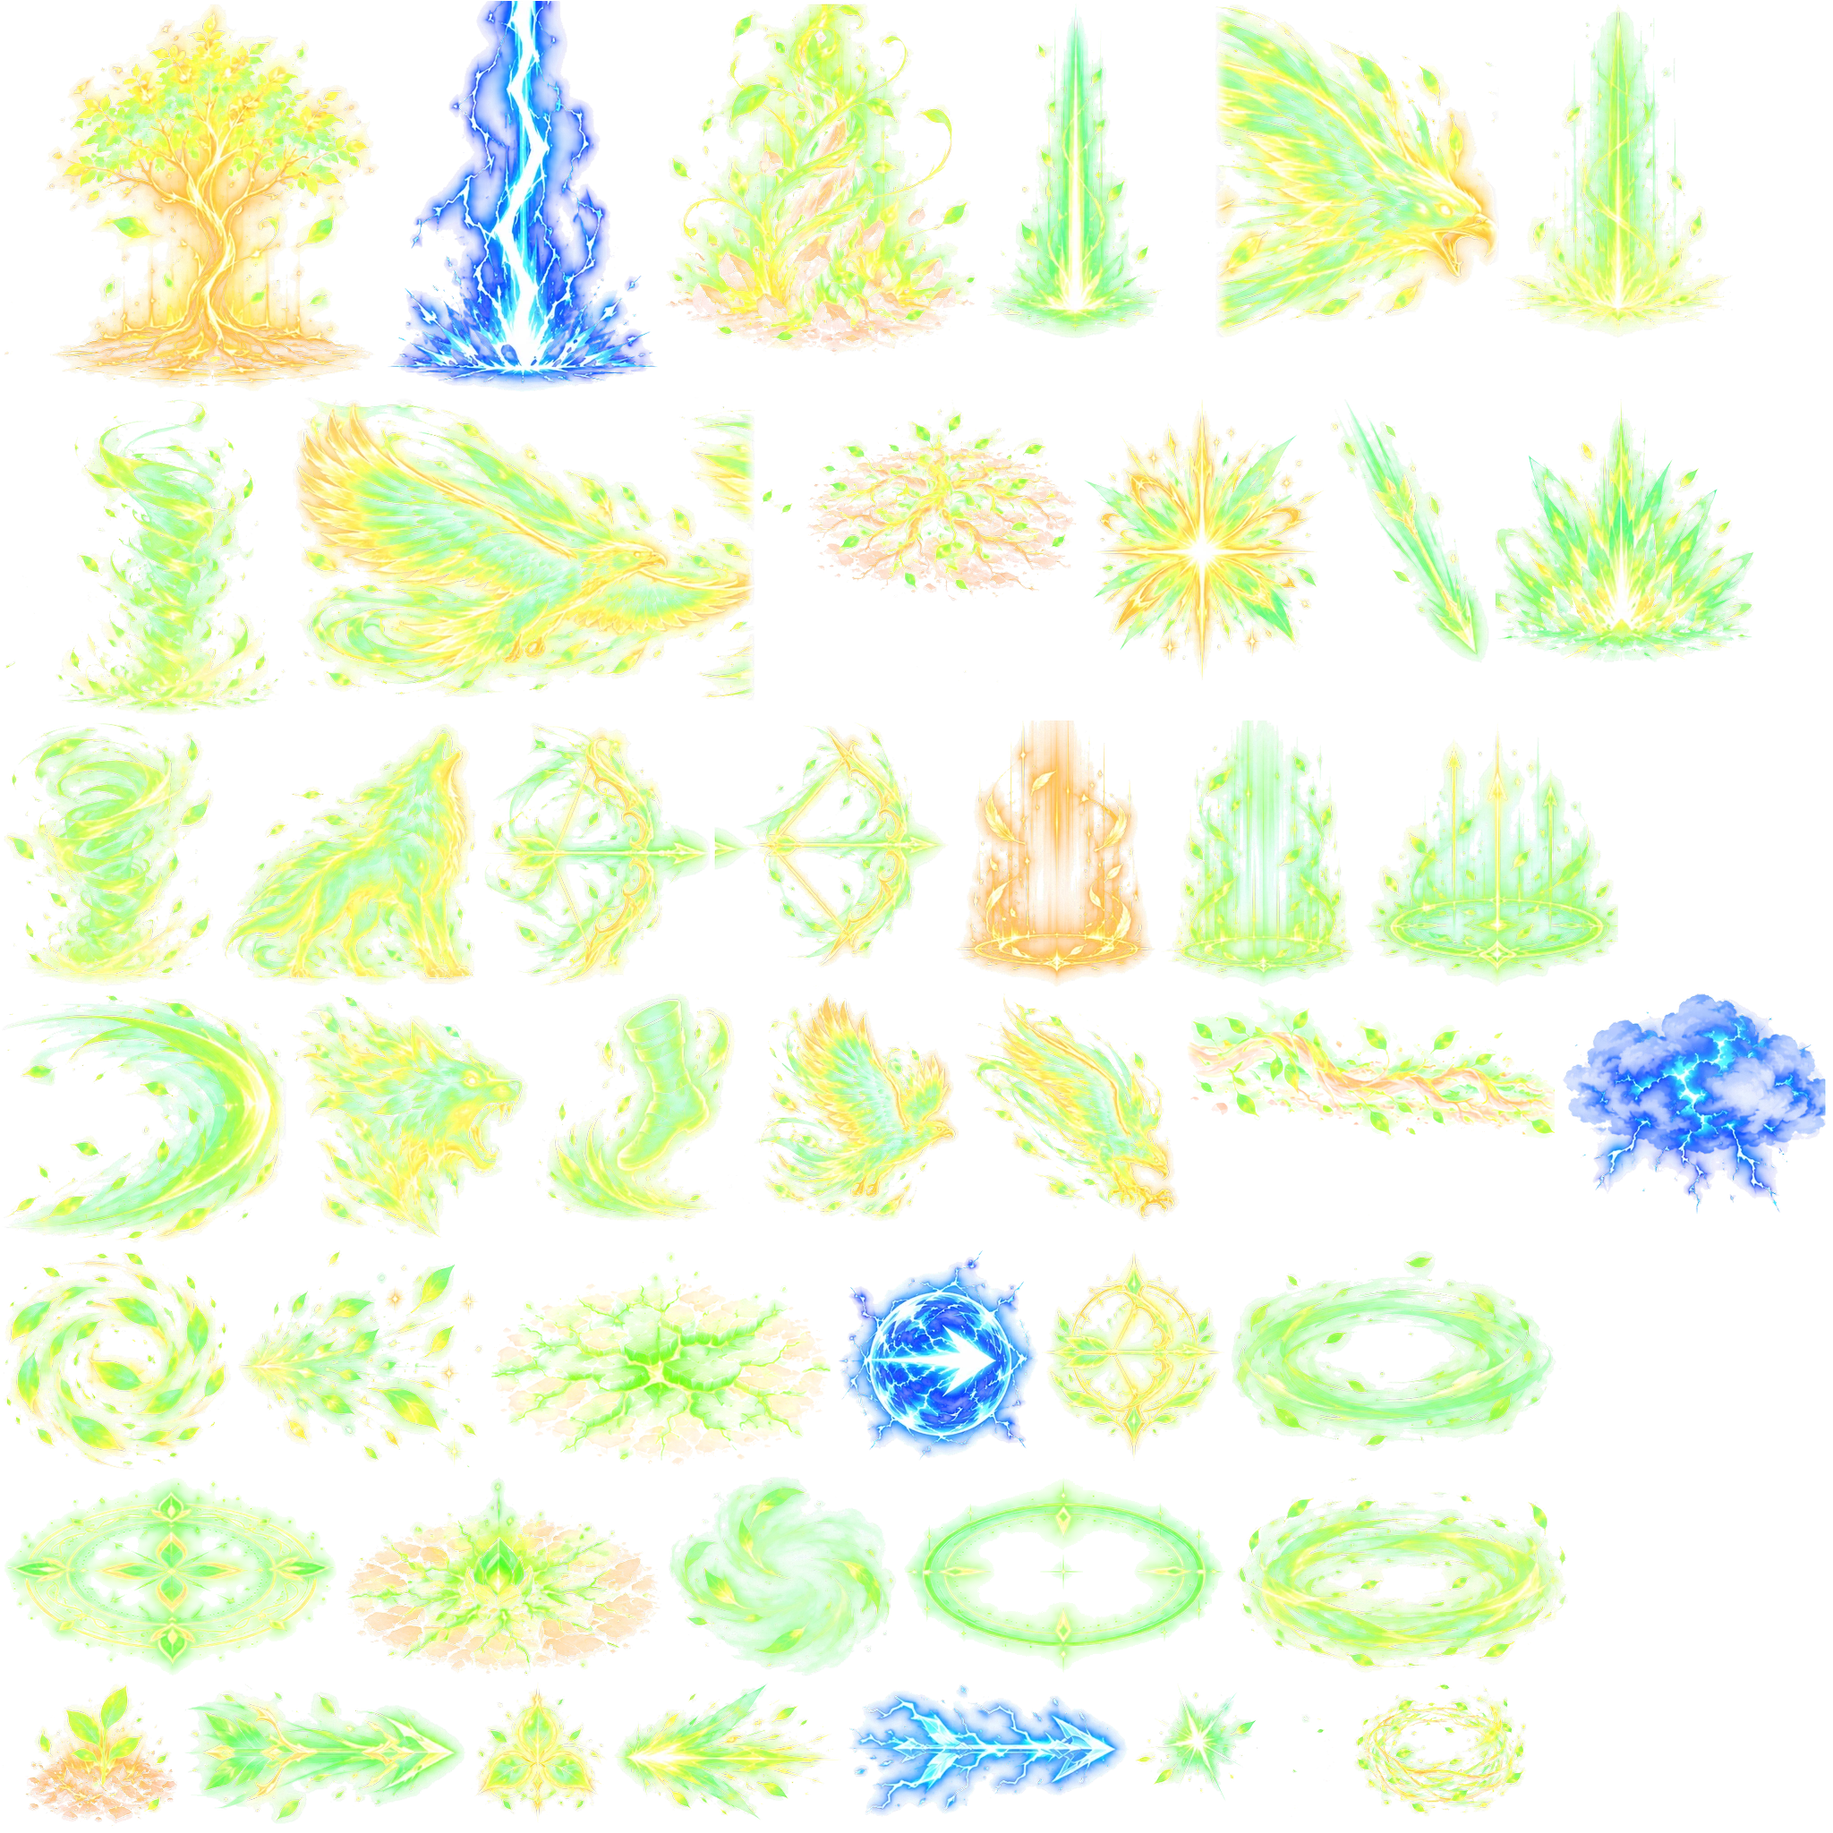
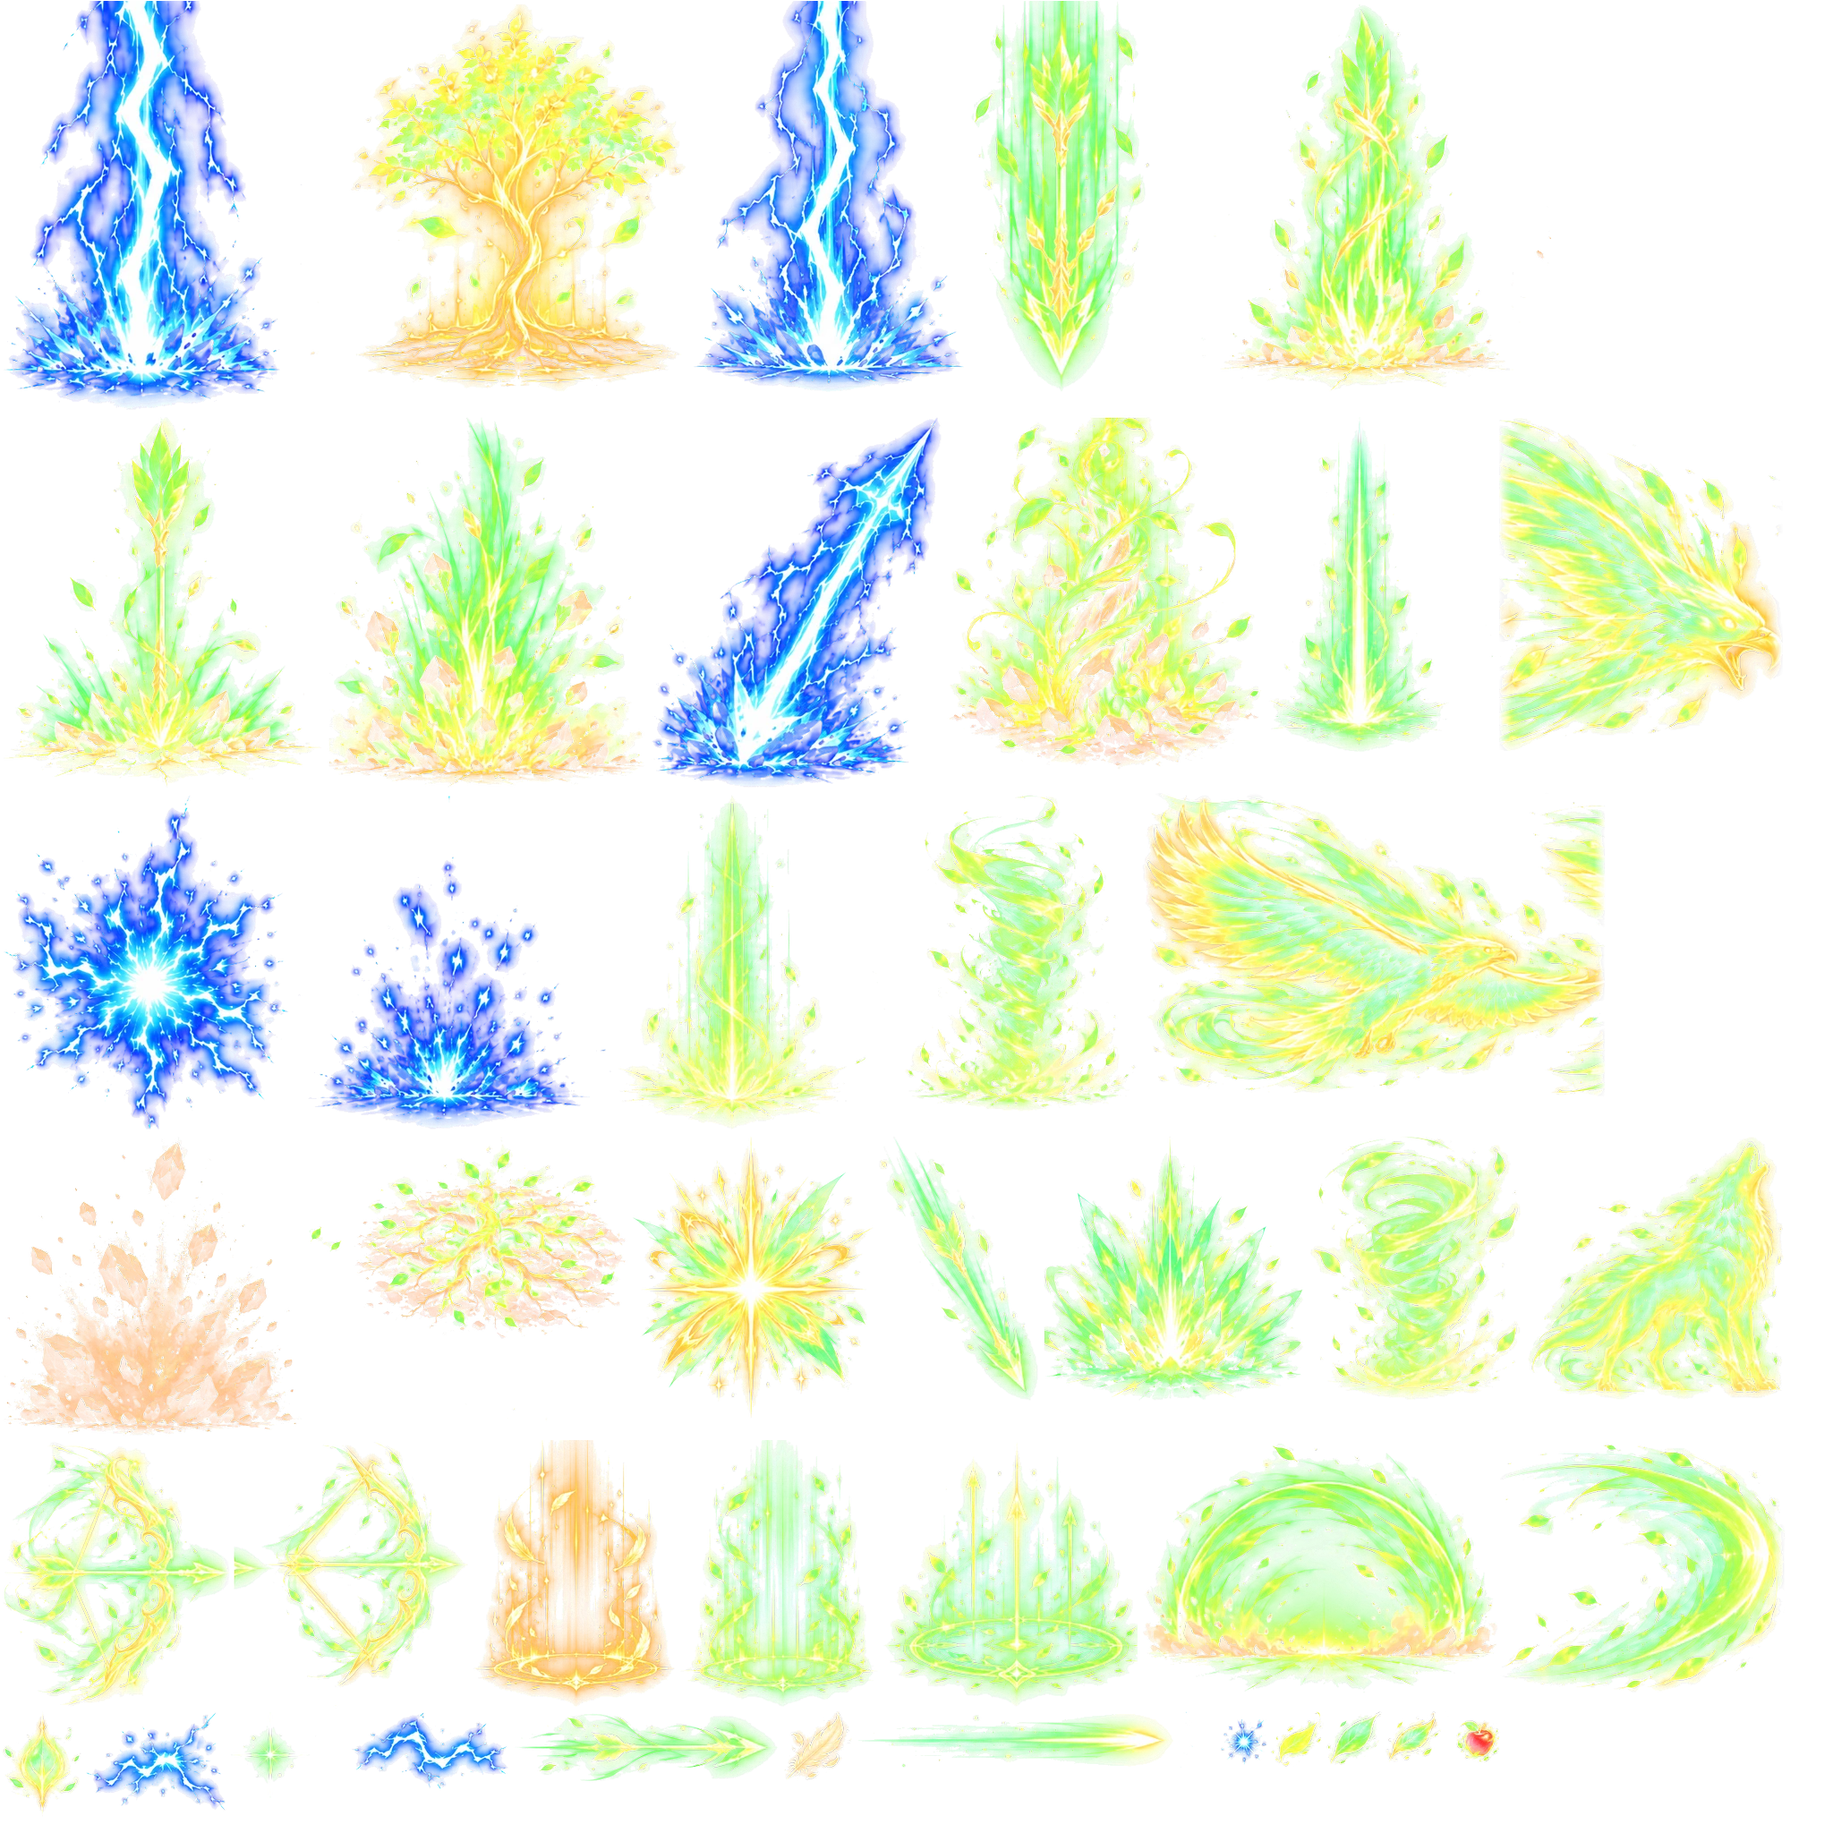
Archer: two new painted sheets (falling / planted arrows, earth bursts, debris, craters, geysers; lightning arrow, strike, burnt charged ground, arcs) used by Hunter's Rain, Wind Step, the kick and the lightning arrows
Claude-Session: https://claude.ai/code/session_01VyjNmvWjWSa1nwJcopXfn1

diff --git a/src/skills/ArcherFx.ts b/src/skills/ArcherFx.ts
@@ -194,7 +194,7 @@ export class ArcherFx {
             this.muzzle(r, 110); const q = this.me(r), sx = q.x + side * 16, sy = q.y - q.z - 54, dx = gx - sx, dy = gy - sy;
             this.spr({ name: 'arrow_heavy', x: sx, y: sy, depth: TOP + 3, w: 100, angle: Math.atan2(dy, dx) * (180 / Math.PI), glow: 0.3, life: 110, mx: (u) => dx * u, my: (u) => dy * u });
             this.later(110, () => {
-              this.spr({ name: 'arrow_stuck', x: gx, y: gy + 4, oy: 0.9, depth: gy + 1, w: 70, flipX: side < 0, life: 240, glow: 0.4 });
+              this.spr({ name: 'arrow_planted', x: gx, y: gy + 6, oy: 0.96, depth: gy + 1, w: 90, life: 240, glow: 0.4 });
               this.floor('floor_cracks', gx, gy, 80, 300, { add: true, s: kf([0, 0.4], [1, 1.2, out3]), a: kf([0, 0.6], [1, 1]) });
               this.pop('arrow_glint', gx, gy - 20, 50, { life: 200 });
             });
@@ -229,7 +229,8 @@ export class ArcherFx {
         this.later(T.startup, () => {
           this.floor('floor_cracks', kx, ky, 190, 900, { run: r, a: kf([0, 1], [0.7, 0.9], [1, 0]) }); // the floor breaks open
           this.spr({ name: 'dust', x: kx, y: ky + 4, oy: 0.85, depth: ky + 1, w: 200, life: 640, sx: kf([0, 0.4], [1, 1.5, out3]), a: kf([0, 0.9], [1, 0, inQ]) });
-          this.spr({ name: 'launch_beam', x: kx, y: ky + 6, oy: 0.97, depth: ky + 2, w: 130, h: 360, life: 460, add: true, glow: 0.3, sy: kf([0, 0.2], [0.22, 1.1, out3]), a: kf([0, 1], [1, 0, inQ]) });
+          this.floor('crater', kx, ky, 210, 1300, { a: kf([0, 0], [0.04, 1], [0.6, 0.85], [1, 0]) });
+          this.spr({ name: 'debris', x: kx, y: ky + 6, oy: 0.95, depth: ky + 4, w: 210, life: 640, my: (u) => -30 * out(u), sy: kf([0, 0.4], [0.3, 1.1, out3]), a: kf([0, 1], [0.6, 1], [1, 0, inQ]) });
           // the big boot rises out of the ground (grows up from the floor line), toe the way she faces, a whirl turning round it
           this.spr({ name: 'wind_boot', x: kx, y: ky + 8, oy: 1, depth: ky + 3, w: 210, flipX: side < 0, life: T.active + 360, glow: 0.3,
             sy: kf([0, 0], [0.18, 1.12, out3], [0.3, 1]), sx: kf([0, 0.7], [0.18, 1, out3]), my: kf([0, 0], [0.18, -20, out3], [1, -70]), a: kf([0, 1], [0.75, 1], [1, 0]) }); // always faces the way she faces
@@ -283,47 +284,46 @@ export class ArcherFx {
     if (s.id === 'rain_of_arrows') { // the charged lightning arrow strikes the floor (near, middle, far)
       const sh = r.hits[i].shape as { bias?: number }, cx = r.origin.x + a.x * (sh.bias ?? 200), cy = r.origin.y + a.y * (sh.bias ?? 200);
       const q = this.me(r), sx = q.x + sideOf(r) * 30, sy = q.y - q.z - 58, lv = { x: cx - sx, y: cy - 20 - sy }, L = Math.hypot(lv.x, lv.y) || 1;
-      this.spr({ name: 'arrow_storm', x: sx, y: sy, depth: TOP + 3, w: 170, angle: Math.atan2(lv.y, lv.x) * (180 / Math.PI), add: true, glow: 0.4, life: 110, mx: (u) => lv.x * u, my: (u) => lv.y * u, a: kf([0, 1], [1, 1]) });
+      this.spr({ name: 'elec_arrow', x: sx, y: sy, ox: 0.9, depth: TOP + 3, w: 190, angle: Math.atan2(lv.y, lv.x) * (180 / Math.PI), add: true, glow: 0.4, life: 110, mx: (u) => lv.x * u, my: (u) => lv.y * u, a: kf([0, 1], [1, 1]) });
       this.later(100, () => {
-        // the arrow stands in the floor, then the sky answers: a great bolt strikes it, and the floor round it stays charged
-        this.spr({ name: 'arrow_storm', x: cx, y: cy + 4, ox: 0.85, depth: cy + 2, w: 150, angle: lv.x >= 0 ? 62 : 118, flipY: lv.x < 0, add: true, glow: 0.4, life: 2000, a: (u) => (u > 0.8 ? (1 - u) * 5 : 1) * (0.75 + 0.25 * Math.sin(u * 60)) });
-        this.pop('burst_crit', cx, cy - 26, 150, { life: 220, tint: 0x9fe6ff });
+        // the arrow stands in the floor, then the sky answers: a great bolt strikes it, and the burnt ground round it stays charged
+        this.spr({ name: 'elec_arrow', x: cx, y: cy + 6, ox: 0.97, depth: cy + 2, w: 170, angle: lv.x >= 0 ? 58 : 122, flipY: lv.x < 0, add: true, glow: 0.4, life: 2000, a: (u) => (u > 0.8 ? (1 - u) * 5 : 1) * (0.75 + 0.25 * Math.sin(u * 60)) });
+        this.spr({ name: 'elec_burst', x: cx, y: cy - 30, depth: cy + 4, w: 200, add: true, life: 260, sx: kf([0, 0.4], [0.3, 1.1, out3]), sy: kf([0, 0.4], [0.3, 1.1, out3]), a: kf([0, 1], [1, 0, inQ]) });
         this.later(70, () => {
-          this.spr({ name: 'bolt_v', x: cx, y: cy + 8, oy: 0.97, depth: cy + 3, w: 170, h: 560, life: 320, add: true, glow: 0.6, sy: kf([0, 0.2], [0.12, 1.05, out3], [1, 1]), a: kf([0, 1], [0.4, 1], [1, 0, inQ]) });
-          this.floor('shock_ring', cx, cy, 230, 420, { add: true, tint: 0x9fe6ff, s: kf([0, 0.3], [1, 1.3, out3]), a: kf([0, 1], [1, 0, inQ]) });
+          this.spr({ name: 'strike', x: cx, y: cy + 10, oy: 0.97, depth: cy + 3, w: 230, h: 560, life: 360, add: true, glow: 0.5, sy: kf([0, 0.2], [0.12, 1.05, out3], [1, 1]), a: kf([0, 1], [0.4, 1], [1, 0, inQ]) });
+          this.floor('elec_ring', cx, cy, 240, 460, { add: true, s: kf([0, 0.3], [1, 1.3, out3]), a: kf([0, 1], [1, 0, inQ]) });
           if (r.own && i === 2) this.ctx.punch(0.02, 160);
         }, r);
-        this.floor('elec_floor', cx, cy, 190, 2100, { add: true, glow: 0.2, s: kf([0, 0.4], [0.1, 1.05, out3], [0.2, 1]), a: (u) => kf([0, 0], [0.06, 0.8], [0.8, 0.55], [1, 0])(u) * (0.8 + 0.2 * Math.sin(u * 45)) }); // the floor stays charged, flickering
-        this.floor('floor_cracks', cx, cy, 140, 2100, { tint: 0x7fdcff, a: kf([0, 0], [0.05, 0.85], [0.8, 0.6], [1, 0]) });
-        for (let k = 0; k < 12; k++) this.later(120 + k * 150, () => { const an = rnd(0, Math.PI * 2), rr = rnd(40, 95); this.bolt('arc_small', { x: cx, y: cy - 4 }, { x: cx + Math.cos(an) * rr, y: cy + Math.sin(an) * rr * 0.45 }, { thick: 24, life: 130 }); if (k % 3 === 0) this.pop('spark_cyan', cx + rnd(-50, 50), cy - rnd(10, 40), 40, { life: 220 }); });
-        for (let k = 0; k < 4; k++) { const an = rnd(0, Math.PI * 2); this.bolt('arc_small', { x: cx, y: cy - 4 }, { x: cx + Math.cos(an) * 90, y: cy + Math.sin(an) * 40 }, { thick: 34, delay: 70 + k * 40, life: 170 }); }
+        this.floor('elec_ground', cx, cy, 210, 2100, { add: false, glow: 0.35, s: kf([0, 0.5], [0.1, 1.05, out3], [0.2, 1]), a: (u) => kf([0, 0], [0.06, 1], [0.8, 0.85], [1, 0])(u) * (0.85 + 0.15 * Math.sin(u * 45)) }); // burnt ground, flickering
+        for (let k = 0; k < 7; k++) this.later(150 + k * 260, () => {
+          this.spr({ name: k % 2 ? 'ground_arcs' : 'elec_sparks', x: cx + rnd(-40, 40), y: cy + rnd(-10, 10) + 6, oy: 0.95, depth: cy + 3, w: k % 2 ? 160 : 120, add: true, life: 300, sy: kf([0, 0.5], [0.3, 1.05, out3]), a: kf([0, 1], [1, 0, inQ]) });
+        }, r);
         this.shake(r, i === 2 ? 200 : 110, i === 2 ? 0.006 : 0.003);
       }, r);
     }
-    if (s.id === 'arrow_storm' && r.place) { // one big shining arrow at a time drops straight down from high above onto the mark and blows up on the floor
-      const c = r.place, big = i % 3 === 2, fx = c.x + rnd(-70, 70), fy = c.y + rnd(-26, 26), H = 820, fall = 200, L = big ? 260 : 210;
-      this.spr({ name: 'arrow_streak', x: fx, y: fy - H, depth: fy + 1.5, w: big ? 340 : 280, ox: 1, angle: 90, add: true, glow: 0.35, life: fall + 80, my: (u) => H * inQ(Math.min(1, u * 1.4)), a: kf([0, 0], [0.15, 0.85], [0.7, 0.7], [1, 0]) });
-      this.spr({ name: 'arrow_heavy', x: fx, y: fy - H, ox: 0.95, depth: fy + 2, w: L, angle: 90, glow: 0.5, life: fall, my: (u) => H * inQ(u), a: kf([0, 0.7], [0.2, 1], [1, 1]) });
+    if (s.id === 'arrow_storm' && r.place) { // one big shining arrow at a time drops straight down from high above onto the mark and blows the ground up
+      const c = r.place, big = i % 3 === 2, fx = c.x + rnd(-70, 70), fy = c.y + rnd(-26, 26), H = 820, fall = 200, L = big ? 230 : 190;
+      this.spr({ name: 'fall_arrow', x: fx, y: fy - H, oy: 0.98, depth: fy + 2, w: L * 0.62, glow: 0.4, life: fall, my: (u) => H * inQ(u), sy: kf([0, 1.2], [1, 1]), a: kf([0, 0.6], [0.2, 1], [1, 1]) });
       this.later(fall, () => {
-        this.spr({ name: 'arrow_heavy', x: fx, y: fy + 6, ox: 0.82, depth: fy + 1, w: L, angle: 90, glow: 0.3, life: 1100, a: kf([0, 1], [0.7, 1], [1, 0]) }); // it stands in the floor a moment
-        this.pop('burst_heavy', fx, fy - 30, big ? 230 : 180, { life: 300 });
-        this.spr({ name: 'launch_beam', x: fx, y: fy + 6, oy: 0.97, depth: fy + 3, w: big ? 120 : 90, h: big ? 320 : 240, life: 320, add: true, glow: 0.3, sy: kf([0, 0.3], [0.25, 1.05, out3]), a: kf([0, 1], [1, 0, inQ]) });
-        this.floor('floor_cracks', fx, fy, big ? 190 : 140, 1300, { a: kf([0, 1], [0.6, 0.8], [1, 0]) });
-        this.floor('shock_ring', fx, fy, big ? 280 : 210, 460, { add: true, s: kf([0, 0.3], [1, 1.3, out3]), a: kf([0, 1], [1, 0, inQ]) });
-        this.spr({ name: 'dust', x: fx, y: fy + 4, oy: 0.85, depth: fy, w: big ? 200 : 160, life: 600, sx: kf([0, 0.5], [1, 1.4, out3]), a: kf([0, 0.85], [1, 0, inQ]) });
-        this.leaves(fx, fy - 20, big ? 12 : 7, 60, { up: 150, life: 800 });
-        this.shake(r, big ? 160 : 100, big ? 0.006 : 0.0035);
+        this.spr({ name: 'arrow_planted', x: fx, y: fy + 6, oy: 0.96, depth: fy + 1, w: big ? 150 : 120, glow: 0.2, life: 800, sy: kf([0, 0.6], [0.08, 1.05, out3], [0.2, 1]), a: kf([0, 1], [0.7, 1], [1, 0]) }); // it stands in the floor a moment
+        this.spr({ name: 'earth_burst', x: fx, y: fy + 8, oy: 0.97, depth: fy + 3, w: big ? 240 : 180, life: 380, sy: kf([0, 0.3], [0.25, 1.05, out3], [1, 1.15]), sx: kf([0, 0.6], [0.3, 1, out3]), a: kf([0, 1], [0.5, 1], [1, 0, inQ]) });
+        this.spr({ name: 'debris', x: fx, y: fy + 6, oy: 0.95, depth: fy + 4, w: big ? 220 : 160, life: 640, my: (u) => -30 * out(u), sy: kf([0, 0.4], [0.3, 1.1, out3]), a: kf([0, 1], [0.6, 1], [1, 0, inQ]) });
+        this.floor('crater', fx, fy, big ? 220 : 170, 1500, { a: kf([0, 0], [0.04, 1], [0.6, 0.85], [1, 0]) });
+        this.spr({ name: 'dust_roll', x: fx, y: fy + 10, oy: 0.9, depth: fy + 2, w: big ? 300 : 230, life: 700, sx: kf([0, 0.5], [1, 1.4, out3]), a: kf([0, 0.9], [1, 0, inQ]) });
+        if (big) { this.spr({ name: 'wind_dome', x: fx, y: fy + 8, oy: 0.95, depth: fy + 3.5, w: 280, add: true, life: 300, sx: kf([0, 0.3], [1, 1.25, out3]), sy: kf([0, 0.3], [1, 1.25, out3]), a: kf([0, 0.7], [1, 0, inQ]) }); }
+        this.leaves(fx, fy - 20, big ? 10 : 6, 60, { up: 150, life: 800 });
+        this.shake(r, big ? 170 : 100, big ? 0.007 : 0.0035);
       }, r);
     }
-    if (s.id === 'bow_haste') { // the arrow in the ground bursts: earth and green light throw the foe up
+    if (s.id === 'bow_haste') { // the arrow in the ground bursts: the earth blows up in green light and throws the foe up
       const sh = r.hits[i].shape as { bias?: number }, gx = r.origin.x + a.x * (sh.bias ?? 200), gy = r.origin.y + a.y * (sh.bias ?? 200);
-      this.pop('burst_heavy', gx, gy - 24, 150, { life: 300 });
-      this.spr({ name: 'launch_beam', x: gx, y: gy + 6, oy: 0.97, depth: gy + 3, w: 110, h: 320, life: 420, add: true, glow: 0.3, sy: kf([0, 0.2], [0.25, 1.1, out3]), a: kf([0, 1], [1, 0, inQ]) });
-      this.floor('floor_cracks', gx, gy, 170, 1100, { a: kf([0, 1], [0.7, 0.9], [1, 0]) });
-      this.spr({ name: 'dust', x: gx, y: gy + 4, oy: 0.85, depth: gy + 1, w: 180, life: 620, sx: kf([0, 0.4], [1, 1.4, out3]), a: kf([0, 0.9], [1, 0, inQ]) });
-      this.floor('shock_ring', gx, gy, 170, 400, { add: true, s: kf([0, 0.4], [1, 1.3, out3]), a: kf([0, 1], [1, 0, inQ]) });
+      this.spr({ name: 'geyser', x: gx, y: gy + 8, oy: 0.97, depth: gy + 3, w: 190, glow: 0.3, life: 560, sy: kf([0, 0.2], [0.25, 1.1, out3], [1, 1.2]), a: kf([0, 1], [0.5, 1], [1, 0, inQ]) });
+      this.spr({ name: 'earth_burst', x: gx, y: gy + 8, oy: 0.97, depth: gy + 3.5, w: 230, life: 500, sy: kf([0, 0.3], [0.25, 1.05, out3]), a: kf([0, 1], [0.5, 1], [1, 0, inQ]) });
+      this.spr({ name: 'debris', x: gx, y: gy + 6, oy: 0.95, depth: gy + 4, w: 200, life: 640, my: (u) => -30 * out(u), sy: kf([0, 0.4], [0.3, 1.1, out3]), a: kf([0, 1], [0.6, 1], [1, 0, inQ]) });
+      this.floor('crater', gx, gy, 200, 1400, { a: kf([0, 0], [0.04, 1], [0.6, 0.85], [1, 0]) });
+      this.spr({ name: 'dust_roll', x: gx, y: gy + 10, oy: 0.9, depth: gy + 2, w: 260, life: 700, sx: kf([0, 0.5], [1, 1.4, out3]), a: kf([0, 0.9], [1, 0, inQ]) });
       this.leaves(gx, gy - 20, 12, 50, { up: 160, life: 900 });
-      this.shake(r, 150, 0.005);
+      this.shake(r, 160, 0.006);
     }
     if (s.id === 'eagle_arrow' && i === 0) { /* the eagle sweep is scheduled from the cast */ }
     void o;

diff --git a/tools/skills/kit.py b/tools/skills/kit.py
@@ -87,6 +87,8 @@ ARCHER_SHEETS = {
     'a7.png': grid(4, 2, ['bolt_v', 'bolt_h', 'storm_orb', 'arc_small', 'elec_floor', 'bolt_seg', 'storm_cloud', 'spark_cyan'], [440, 360, 240, 160, 380, 220, 300, 100]),
     'a8.png': grid(4, 1, ['hawk_up', 'hawk_down', 'hawk_dive', 'feather_burst'], [260, 260, 260, 240], h=512)
               + [('eagle_wide', (0, 530, 600, 990), 520, 'box'), ('eagle_head', (590, 530, 912, 960), 380, 'box'), ('wolf_head', (920, 512, 1200, 1024), 280), ('wolf', (1200, 512, 1536, 1024), 300)],
+    'a10.png': grid(4, 2, ['fall_arrow', 'arrow_planted', 'earth_burst', 'debris', 'crater', 'geyser', 'dust_roll', 'wind_dome'], [440, 420, 420, 340, 440, 440, 400, 400]),
+    'a11.png': grid(4, 2, ['elec_rise_arrow', 'strike', 'elec_burst', 'elec_arrow', 'elec_ground', 'ground_arcs', 'elec_sparks', 'elec_ring'], [420, 460, 380, 360, 420, 380, 380, 420]),
     'a9.png': [('bow', (0, 40, 390, 480), 300, 'box')] + grid(4, 2, [None, 'bow_drawn', 'aura_gold', 'aura_green', 'emblem', 'pillar', 'sparkles', 'rain_ring'], [300, 300, 300, 300, 240, 380, 200, 300]),
 }
 PROFILES = {'samurai': (G + 'tools/skills/gpt/kit/', G + 'public/assets/final/skills/samurai/kit/', None),
